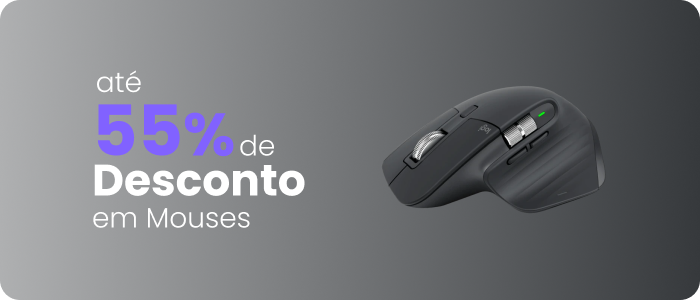
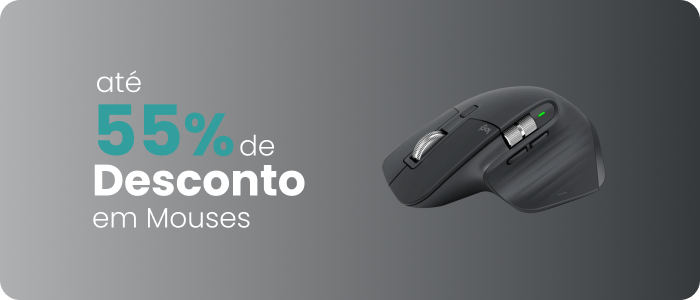
feat: update color theme

Changed region(s): [[0.12, 0.33, 0.36, 0.54]]

diff --git a/src/components/layout/header/Header.tsx b/src/components/layout/header/Header.tsx
@@ -5,7 +5,7 @@ import { Sheet, SheetClose, SheetContent, SheetHeader, SheetTrigger } from "@/co
 import AuthButton from "./AuthButton";
 import AuthenticatedHeaderTop from "./AuthenticatedHeaderTop";
 import Link from "next/link";
-
+// 1;50
 const Header = () => {
   return (
     <Card className="flex justify-between p-[1.875rem]">
@@ -47,7 +47,7 @@ const Header = () => {
           </div>
         </SheetContent>
       </Sheet>
-      
+
       <Link href="/">
         <h1 className="text-lg font-semibold">
           <span className="text-primary">FSW</span> Store

diff --git a/tailwind.config.ts b/tailwind.config.ts
@@ -17,7 +17,9 @@ module.exports = {
     },
     extend: {
       backgroundImage: {
-        "catalog-item-gradient": "linear-gradient(45deg, #5033C3 0%, rgba(80, 51, 195, 0.20) 100%)",
+        "catalog-item-gradient": "linear-gradient(45deg, #339E9E 0%, rgba(51, 51, 195, 0.10) 100%)",
+
+
       },
       colors: {
         border: "hsl(var(--border))",

diff --git a/src/app/globals.css b/src/app/globals.css
@@ -13,7 +13,7 @@
     --popover: 0 0% 4%;
     --popover-foreground: 0 0% 100%;
 
-    --primary: 252 59% 48%;
+    --primary: 158 59% 48%;
     --primary-foreground: 0 0% 100%;
 
     --secondary: 0 0% 9%;
